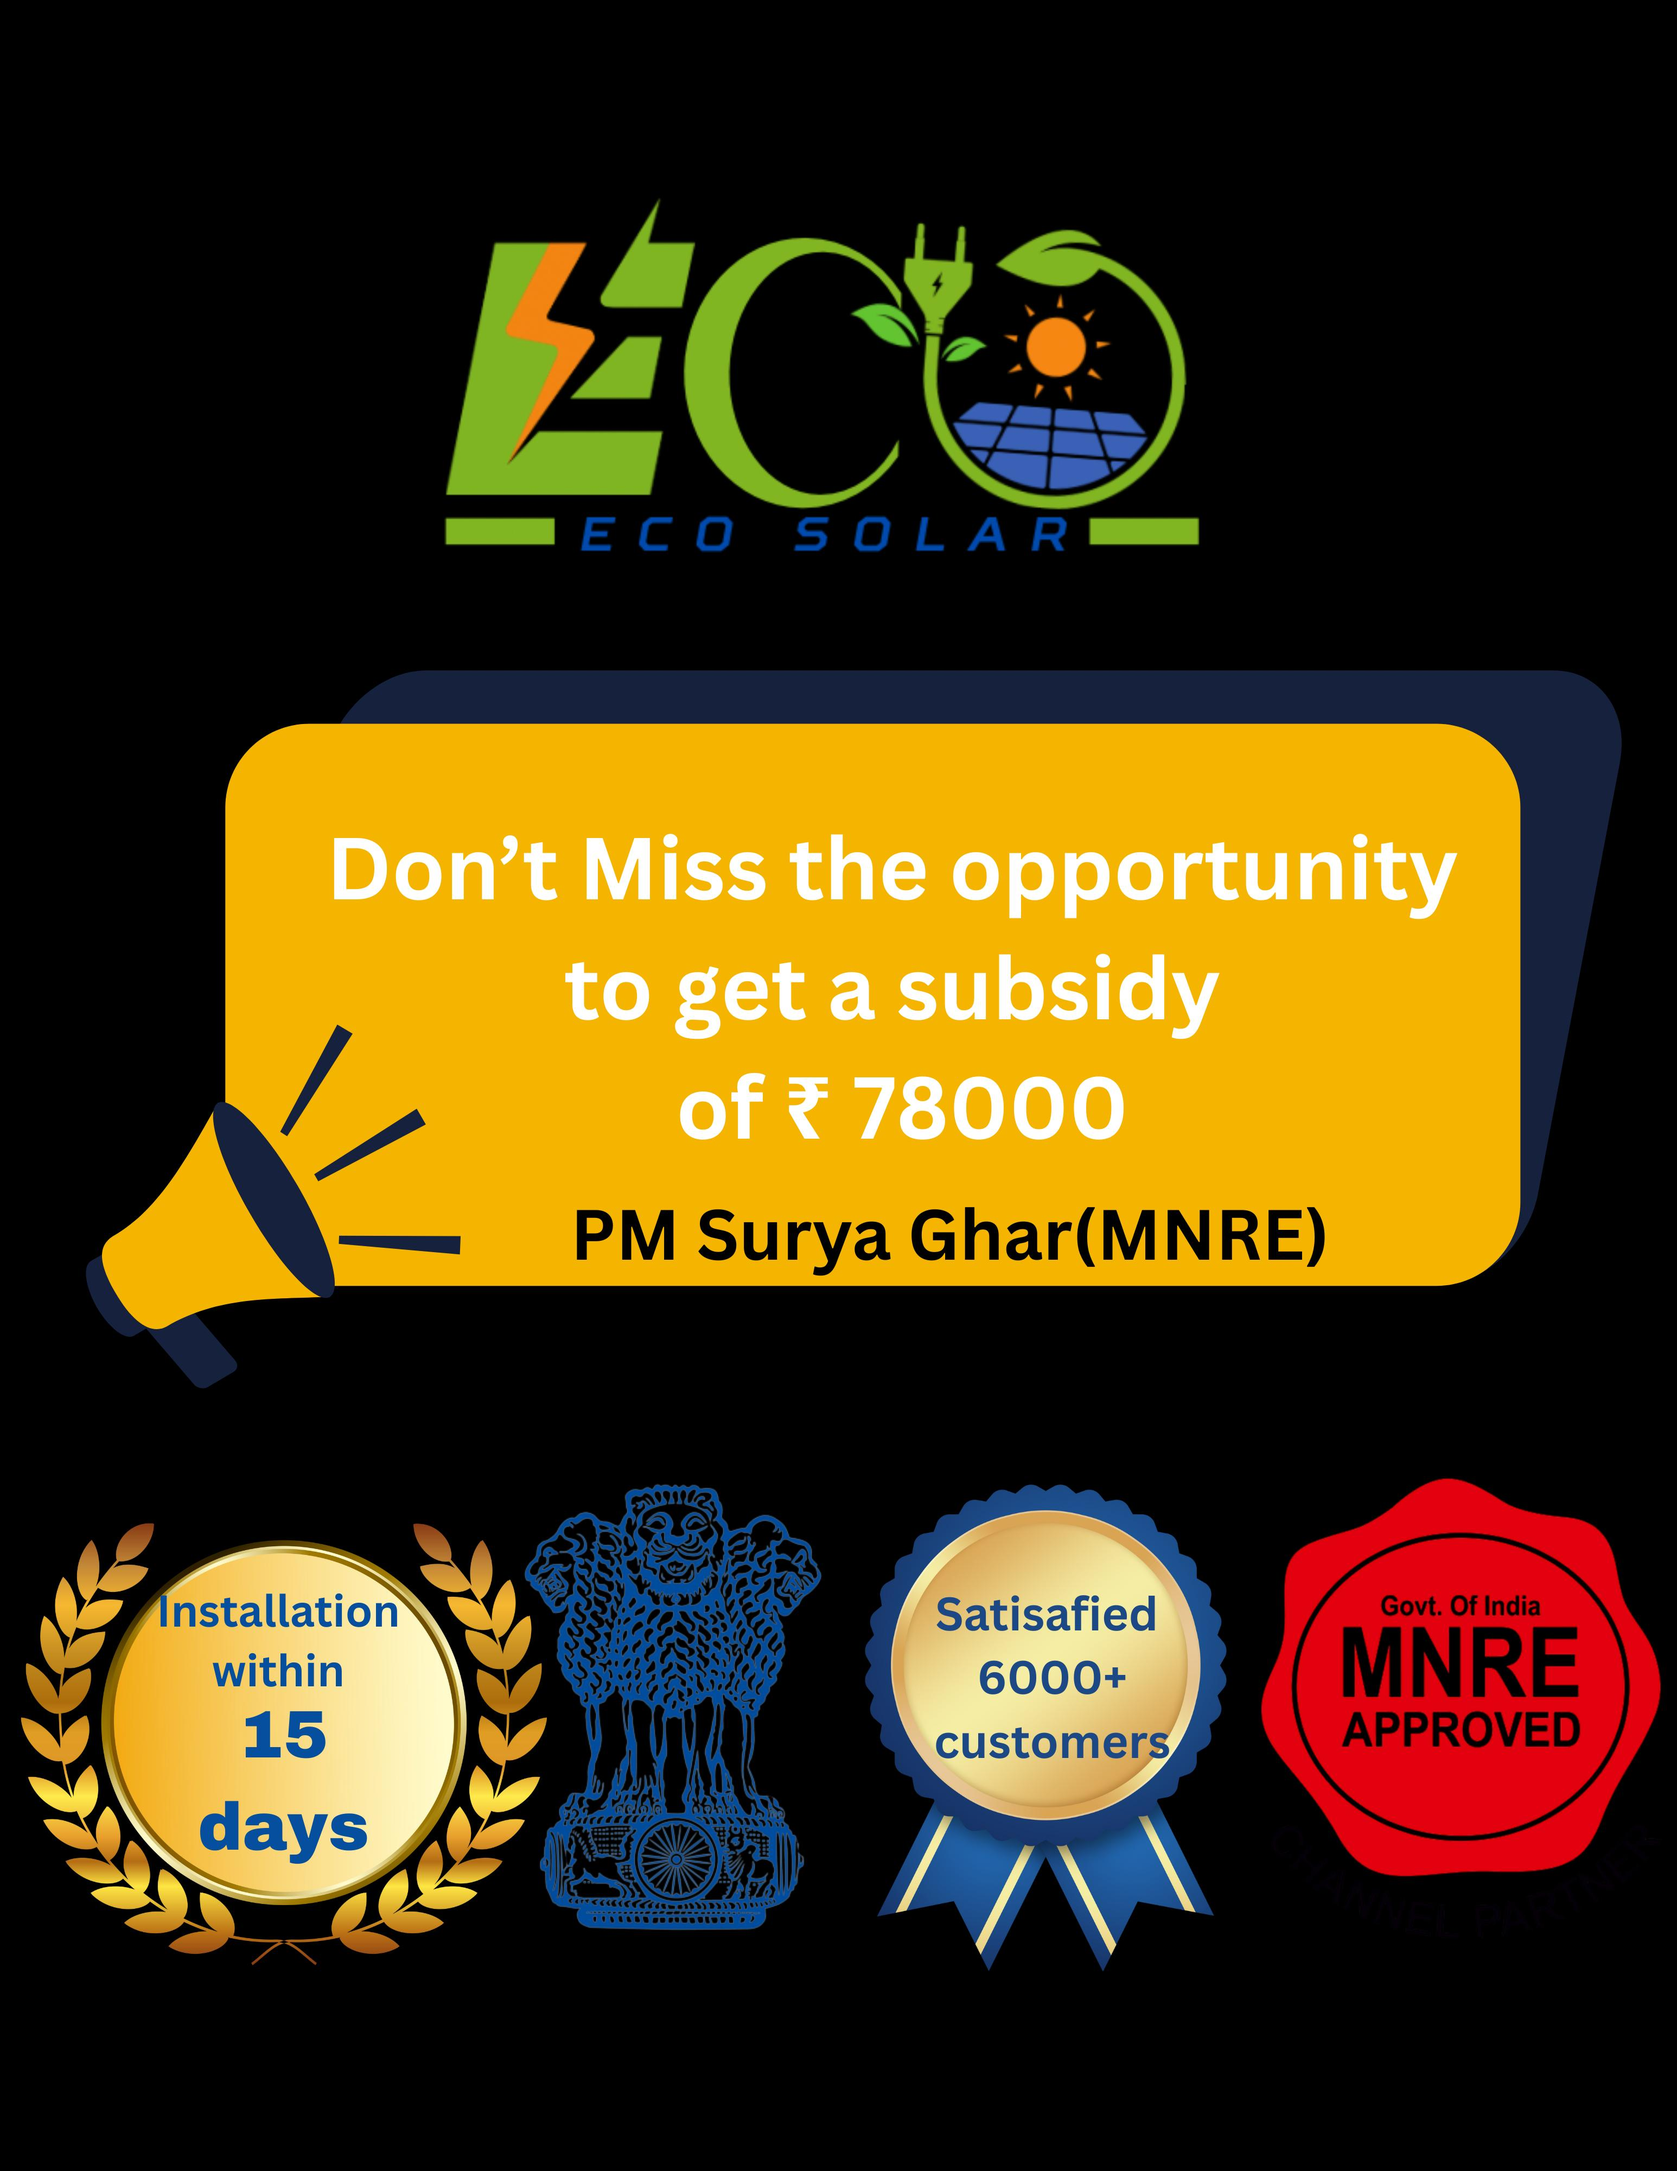
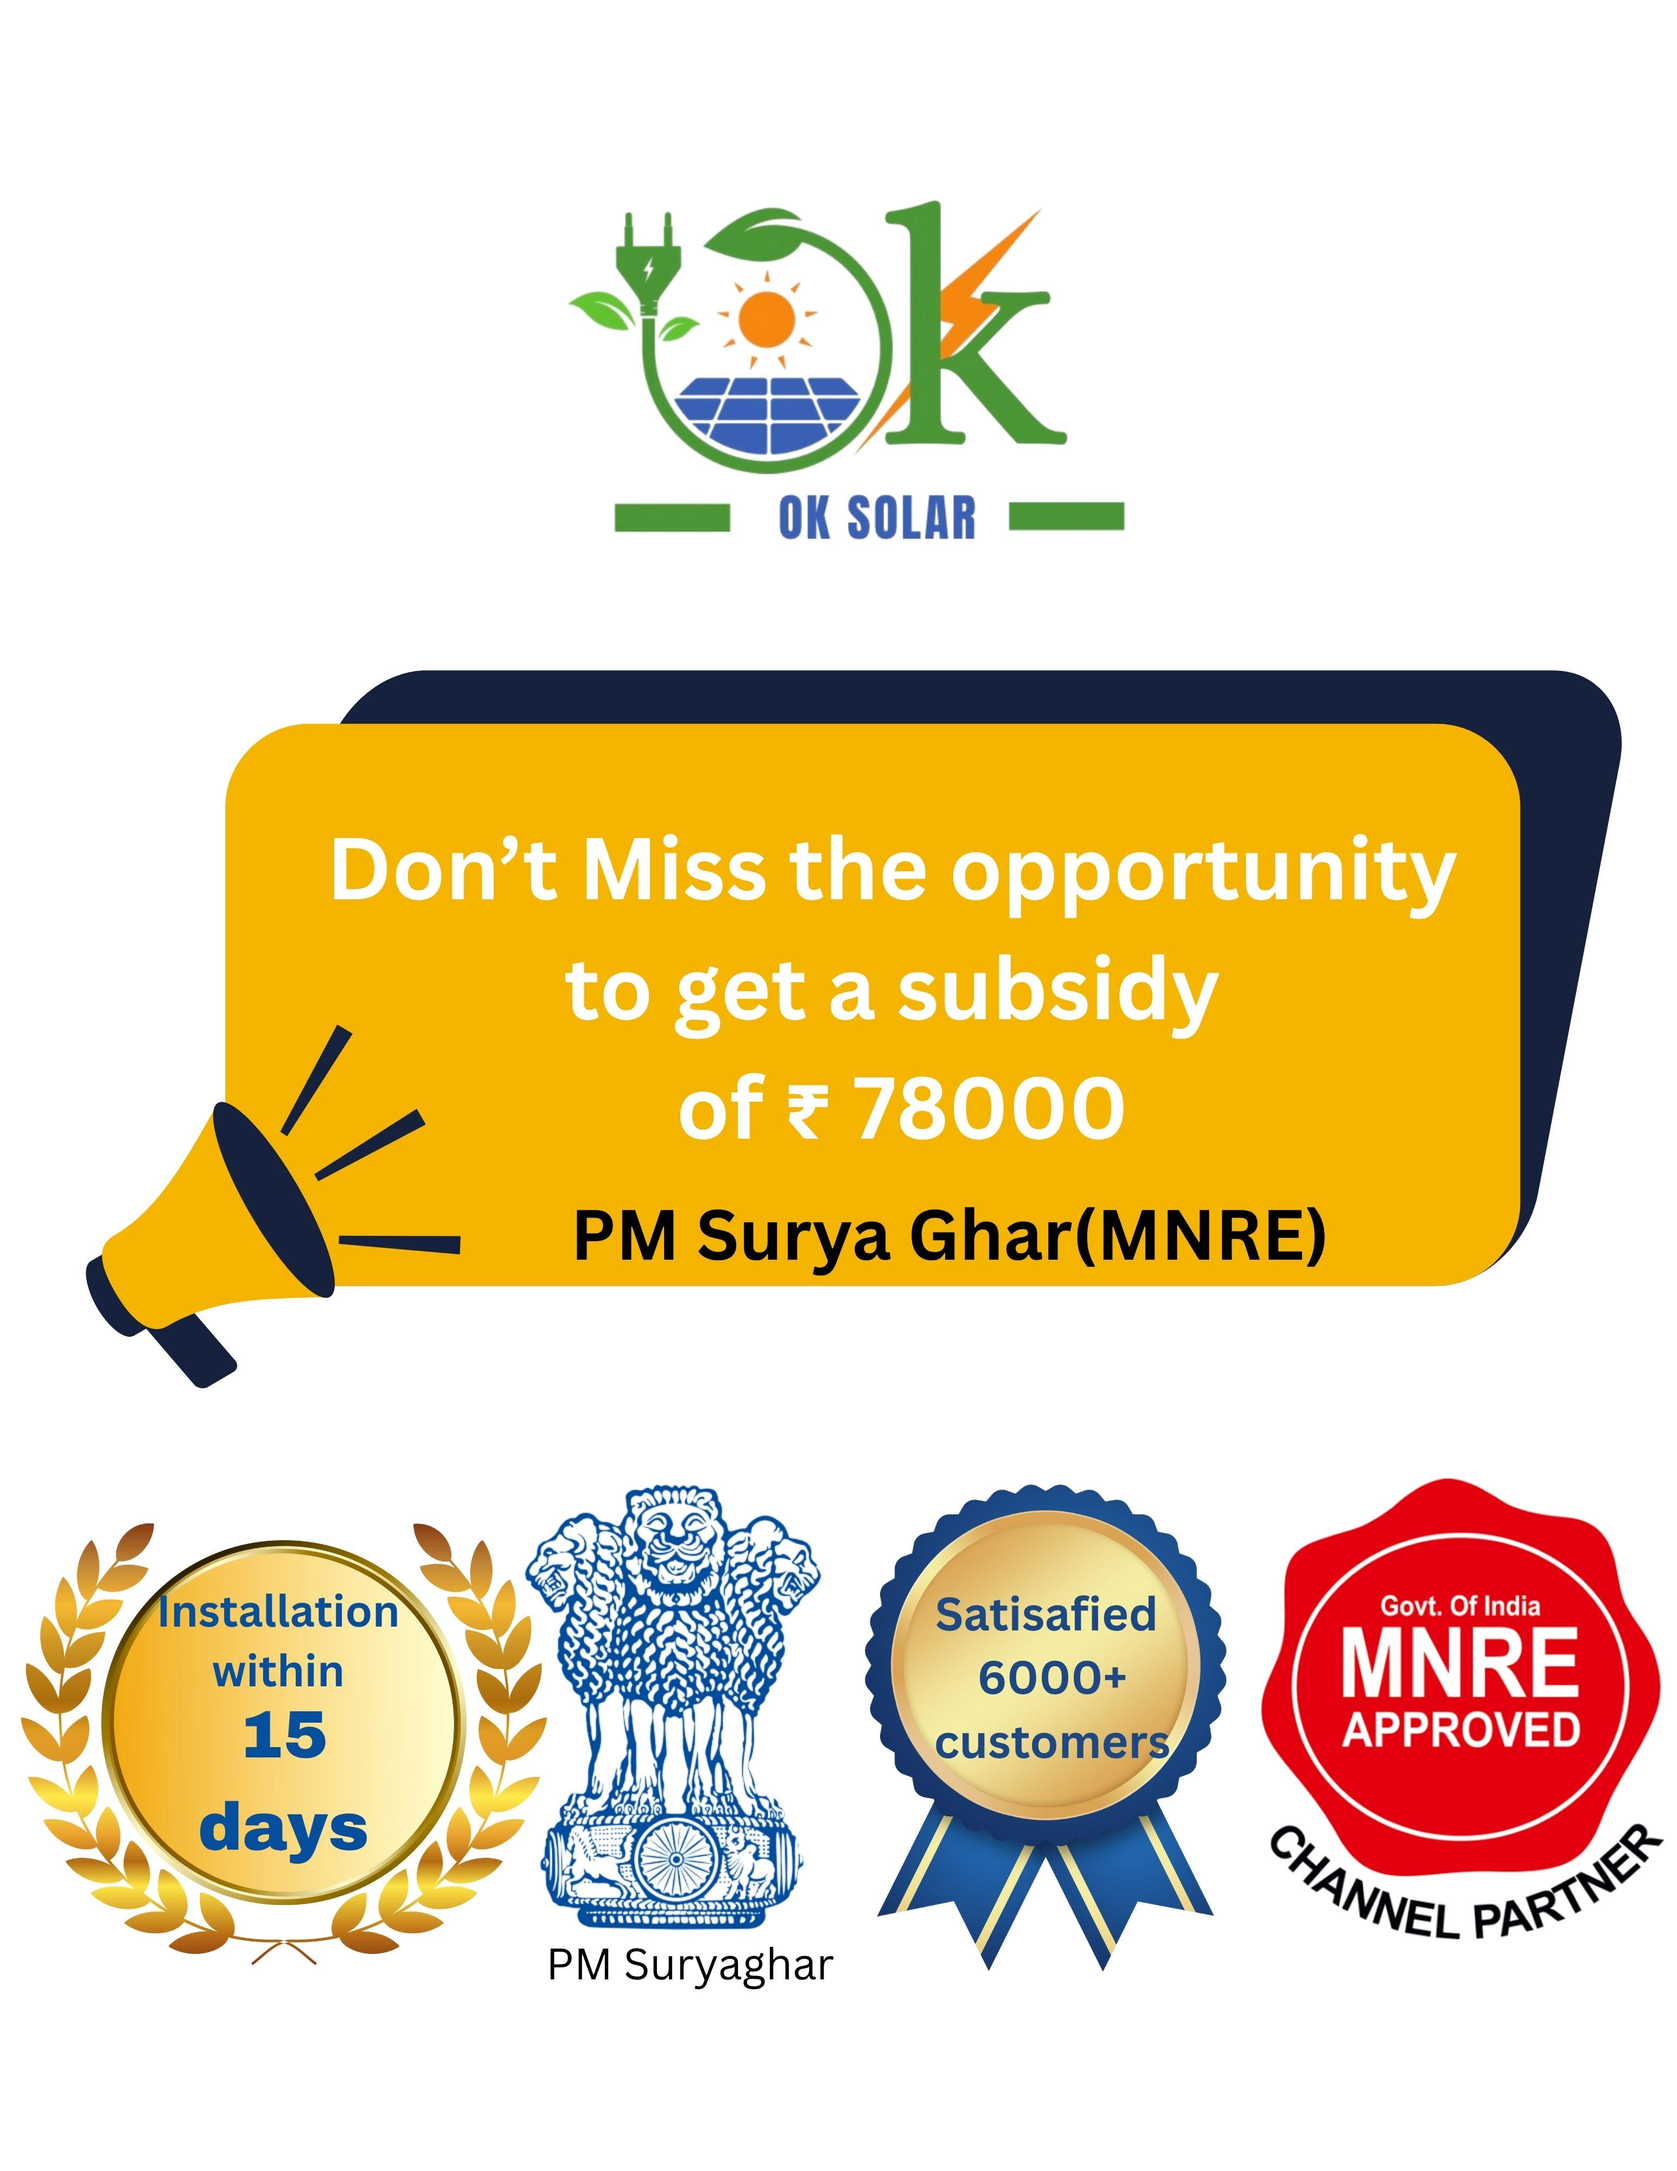
Minor Changes

diff --git a/src/components/sections/Testimonials.tsx b/src/components/sections/Testimonials.tsx
@@ -17,7 +17,7 @@ const testimonials: TestimonialProps[] = [
   {
     name: "Rajesh Sharma",
     role: "Homeowner",
-    location: "Delhi",
+    location: "Jaipur",
     image: "https://images.pexels.com/photos/220453/pexels-photo-220453.jpeg?auto=compress&cs=tinysrgb&w=1260&h=750&dpr=1",
     content: "Ok Solar India helped me reduce my electricity bill by 90%. The installation was professional and completed within the promised timeframe. Their team was very knowledgeable and helped me understand the entire process.",
     rating: 5
@@ -26,7 +26,7 @@ const testimonials: TestimonialProps[] = [
     name: "Priya Patel",
     role: "Business Owner",
     company: "Patel Textiles",
-    location: "Ahmedabad",
+    location: "Bhopal",
     image: "https://images.pexels.com/photos/774909/pexels-photo-774909.jpeg?auto=compress&cs=tinysrgb&w=1260&h=750&dpr=1",
     content: "We installed a 25kW system for our textile factory and the results have been remarkable. Our production costs have decreased significantly, and the ROI is already exceeding our expectations. Highly recommended!",
     rating: 5
@@ -34,7 +34,7 @@ const testimonials: TestimonialProps[] = [
   {
     name: "Sunil Reddy",
     role: "IT Professional",
-    location: "Bangalore",
+    location: "Indore",
     image: "https://images.pexels.com/photos/614810/pexels-photo-614810.jpeg?auto=compress&cs=tinysrgb&w=1260&h=750&dpr=1",
     content: "The entire process from consultation to installation was smooth and transparent. The team was professional and the system has been working flawlessly for over a year now. Great service and support!",
     rating: 4
@@ -43,7 +43,7 @@ const testimonials: TestimonialProps[] = [
     name: "Ananya Desai",
     role: "School Principal",
     company: "Green Valley School",
-    location: "Pune",
+    location: "Ahemdabad",
     image: "https://images.pexels.com/photos/1239291/pexels-photo-1239291.jpeg?auto=compress&cs=tinysrgb&w=1260&h=750&dpr=1",
     content: "Our school installed solar panels as part of our sustainability initiative. The team at Ok Solar made the process educational for our students and the system has been providing clean energy reliably. We're now saving on electricity while teaching our students about renewable energy.",
     rating: 5

diff --git a/src/components/layout/Footer.tsx b/src/components/layout/Footer.tsx
@@ -82,16 +82,13 @@ const Footer: React.FC = () => {
               </li>
               <li className="flex items-start">
                 <Mail className="h-5 w-5 text-primary-500 mr-2 mt-0.5" />
-                <span className="text-gray-400">ecosolarindia.inc@gmail.com </span>
+                <span className="text-gray-400">oksolar.inc@gmail.com </span>
               </li>
               <li className="flex items-start">
                 <MapPin className="h-5 w-5 text-primary-500 mr-2 mt-0.5" />
                 <span className="text-gray-400">
-                  57 Shushila bhawan ,Priyadarshini phase 3
- 
-
-                  <br />Shree Rameshwaram Bagmugaliya
-                  <br />Bhopal, Madhya Pradesh 462043
+                  57,Shree Rameshwaram Bagmugaliya, Bhopal
+                  <br />Madhya Pradesh 462043
                 </span>
               </li>
             </ul>
@@ -103,7 +100,7 @@ const Footer: React.FC = () => {
       <div className="border-t border-gray-800">
         <div className="container py-6 flex flex-col md:flex-row justify-between items-center">
           <p className="text-gray-400 text-sm mb-4 md:mb-0">
-            &copy; {new Date().getFullYear()} Eco Solar India. All rights reserved.
+            &copy; {new Date().getFullYear()} OkSolar India. All rights reserved.
           </p>
           <div className="flex flex-wrap justify-center gap-4 text-sm text-gray-400">
             <a href="#" className="hover:text-primary-500 transition-colors">Privacy Policy</a>

diff --git a/src/components/sections/Contact.tsx b/src/components/sections/Contact.tsx
@@ -172,7 +172,7 @@ const Contact: React.FC = () => {
                   <Mail className="h-6 w-6 mr-4 mt-1" />
                   <div>
                     <h4 className="font-medium mb-1">Email</h4>
-                    <p className="text-white/90">ecosolarindia.inc@gmail.com </p>
+                    <p className="text-white/90">oksolar.inc@gmail.com </p>
                     <p className="text-white/70 text-sm">We respond within 24 hours</p>
                   </div>
                 </div>
@@ -182,8 +182,7 @@ const Contact: React.FC = () => {
                   <div>
                     <h4 className="font-medium mb-1">Office</h4>
                     <p className="text-white/90">
-                     57 Shushila bhawan ,Priyadarshini phase 3
-                    <br />Shree Rameshwaram Bagmugaliya
+                     57, Shree Rameshwaram Bagmugaliya
                   <br />Bhopal, Madhya Pradesh 462043
                     </p>
                   </div>

diff --git a/src/components/layout/Header.tsx b/src/components/layout/Header.tsx
@@ -36,14 +36,14 @@ const Header: React.FC = () => {
         }`}
       >
         <div className="container flex items-center justify-between mt-0 mb-2 md:mb-4">
-          <div className="flex items-center text-[#2bbc2d] font-bold text-2xl md:text-3xl">
-            {/* <img
-              src="/eco solar logo.png"
+          <div className="flex items-center">
+            <img
+              src="/oksolar logo.png"
               alt="Eco Solar Logo"
               className={`transition-all duration-300 ${
                 isScrolled ? 'h-24 w-32' : 'h-24 w-32'
               }`}
-            /> */}Ok Solar India
+            />
           </div>
 
           {/* Desktop Navigation */}

diff --git a/src/components/sections/Hero.tsx b/src/components/sections/Hero.tsx
@@ -79,7 +79,7 @@ const Hero: React.FC = () => {
         {/* Right: Large Image */}
         <div className="hidden lg:flex flex-1 justify-center items-center">
           <img
-            src="/bg21.PNG"
+            src="/bg21-removebg.png"
             alt="Ok Solar"
             className="h-[400px] w-[400px] object-contain shadow-2xl border-2 border-white rounded-lg"
           />
